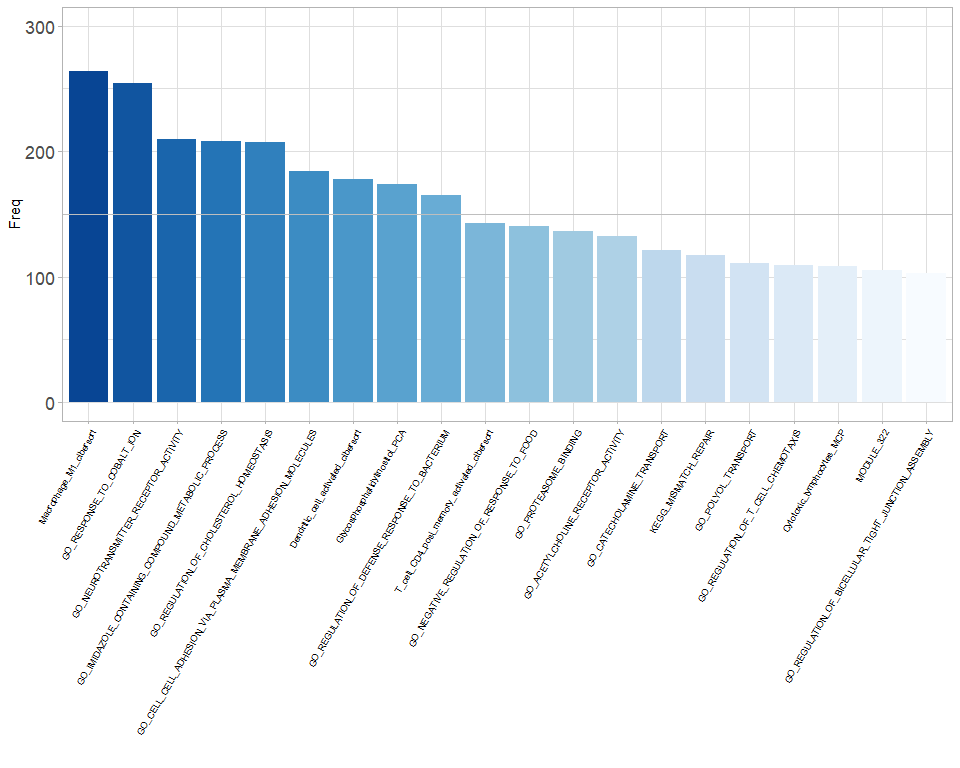
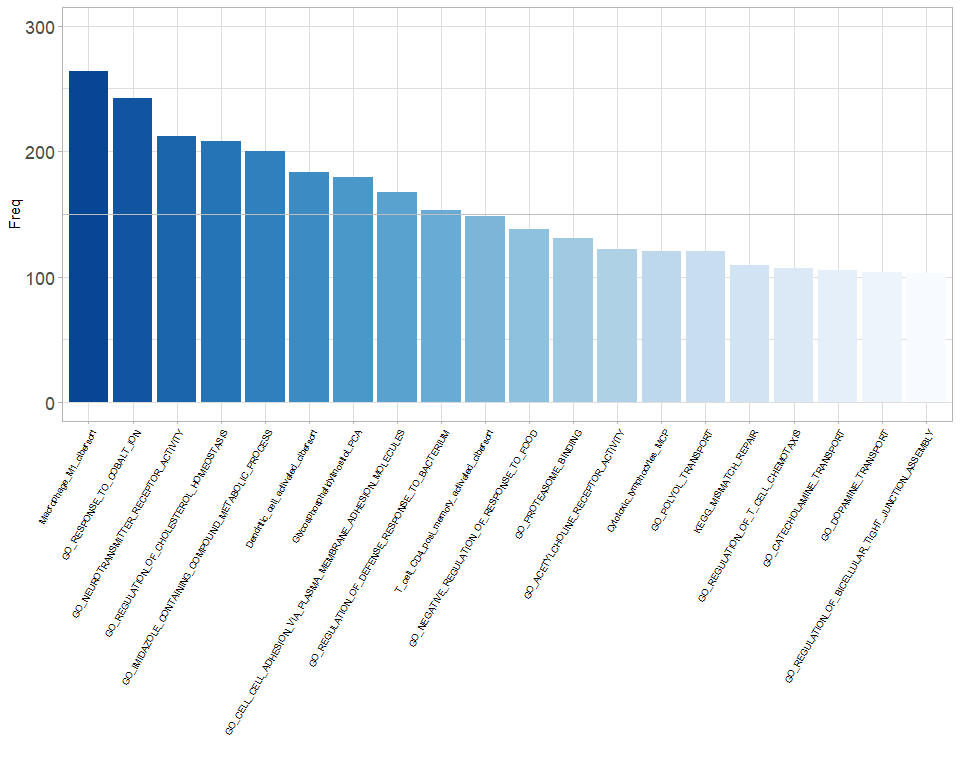
update README

diff --git a/README.md b/README.md
@@ -1,7 +1,7 @@
 
 <!-- README.md is generated from README.Rmd. Please edit that file -->
 
-# Blasso： Integrating LASSO cox regression and bootstrapping algorithm to find best prognostic features
+# Blasso： Integrating LASSO regression and bootstrapping algorithm to find best prognostic or predictive feature
 
 The package is not yet on CRAN. You can install from Github:
 
@@ -68,15 +68,15 @@ res<-best_predictor_cox(target_data = target,
 head(res$res, n = 10)
 #>                                                             res Freq
 #> 1                                       Macrophage_M1_cibersort  264
-#> 2                                     GO_RESPONSE_TO_COBALT_ION  254
-#> 3                         GO_NEUROTRANSMITTER_RECEPTOR_ACTIVITY  210
-#> 4            GO_IMIDAZOLE_CONTAINING_COMPOUND_METABOLIC_PROCESS  208
-#> 5                      GO_REGULATION_OF_CHOLESTEROL_HOMEOSTASIS  207
-#> 6  GO_CELL_CELL_ADHESION_VIA_PLASMA_MEMBRANE_ADHESION_MOLECULES  184
-#> 7                            Dendritic_cell_activated_cibersort  178
-#> 8                                Glycosphosphatidylinositol_PCA  174
-#> 9                GO_REGULATION_OF_DEFENSE_RESPONSE_TO_BACTERIUM  165
-#> 10                   T_cell_CD4_posi_memory_activated_cibersort  143
+#> 2                                     GO_RESPONSE_TO_COBALT_ION  242
+#> 3                         GO_NEUROTRANSMITTER_RECEPTOR_ACTIVITY  212
+#> 4                      GO_REGULATION_OF_CHOLESTEROL_HOMEOSTASIS  208
+#> 5            GO_IMIDAZOLE_CONTAINING_COMPOUND_METABOLIC_PROCESS  200
+#> 6                            Dendritic_cell_activated_cibersort  183
+#> 7                                Glycosphosphatidylinositol_PCA  179
+#> 8  GO_CELL_CELL_ADHESION_VIA_PLASMA_MEMBRANE_ADHESION_MOLECULES  167
+#> 9                GO_REGULATION_OF_DEFENSE_RESPONSE_TO_BACTERIUM  153
+#> 10                   T_cell_CD4_posi_memory_activated_cibersort  148
 ```
 
 ## Usage-2: Binomial model
@@ -96,16 +96,16 @@ res<-best_predictor_binomial(target_data = target,
 ``` r
 head(res$res, n = 10)
 #>                                                               res Freq
-#> 2                                         Macrophage_M1_cibersort  287
-#> 3                                       GO_RESPONSE_TO_COBALT_ION  272
-#> 4                        GO_REGULATION_OF_CHOLESTEROL_HOMEOSTASIS  249
-#> 5                     GO_SOMATIC_STEM_CELL_POPULATION_MAINTENANCE  247
-#> 6                           GO_NEUROTRANSMITTER_RECEPTOR_ACTIVITY  246
-#> 7                                                       GO_M_BAND  232
-#> 8                              Dendritic_cell_activated_cibersort  227
-#> 9  GO_RECEPTOR_SIGNALING_PROTEIN_SERINE_THREONINE_KINASE_ACTIVITY  207
-#> 10                                     GO_CENTROSOME_LOCALIZATION  203
-#> 11                GO_VERY_LONG_CHAIN_FATTY_ACID_METABOLIC_PROCESS  197
+#> 2                                       GO_RESPONSE_TO_COBALT_ION  276
+#> 3                                         Macrophage_M1_cibersort  274
+#> 4                           GO_NEUROTRANSMITTER_RECEPTOR_ACTIVITY  247
+#> 5                     GO_SOMATIC_STEM_CELL_POPULATION_MAINTENANCE  245
+#> 6                              Dendritic_cell_activated_cibersort  242
+#> 7                        GO_REGULATION_OF_CHOLESTEROL_HOMEOSTASIS  240
+#> 8                                                       GO_M_BAND  225
+#> 9  GO_RECEPTOR_SIGNALING_PROTEIN_SERINE_THREONINE_KINASE_ACTIVITY  206
+#> 10                                     GO_CENTROSOME_LOCALIZATION  199
+#> 11                                     GO_CATECHOLAMINE_TRANSPORT  190
 ```
 
 ## Session Info
@@ -114,7 +114,7 @@ head(res$res, n = 10)
 sessionInfo()
 #> R version 3.6.3 (2020-02-29)
 #> Platform: x86_64-w64-mingw32/x64 (64-bit)
-#> Running under: Windows 10 x64 (build 18362)
+#> Running under: Windows 10 x64 (build 18363)
 #> 
 #> Matrix products: default
 #> 
@@ -136,14 +136,14 @@ sessionInfo()
 #>  [1] shape_1.4.4       tidyselect_1.1.0  xfun_0.16         remotes_2.2.0    
 #>  [5] purrr_0.3.4       splines_3.6.3     lattice_0.20-41   generics_0.0.2   
 #>  [9] colorspace_1.4-1  vctrs_0.3.2       testthat_2.3.2    usethis_1.6.1    
-#> [13] htmltools_0.5.0   yaml_2.2.1        rlang_0.4.7       pkgbuild_1.1.0   
-#> [17] pillar_1.4.6      glue_1.4.2        withr_2.2.0       sessioninfo_1.1.1
+#> [13] htmltools_0.5.0   yaml_2.2.1        rlang_0.4.8       pkgbuild_1.1.0   
+#> [17] pillar_1.4.6      glue_1.4.2        withr_2.3.0       sessioninfo_1.1.1
 #> [21] foreach_1.5.0     lifecycle_0.2.0   stringr_1.4.0     munsell_0.5.0    
 #> [25] gtable_0.3.0      devtools_2.3.1    codetools_0.2-16  memoise_1.1.0    
 #> [29] evaluate_0.14     labeling_0.3      knitr_1.29        callr_3.4.3      
 #> [33] ps_1.3.4          fansi_0.4.1       backports_1.1.8   scales_1.1.1     
 #> [37] desc_1.2.0        pkgload_1.1.0     farver_2.0.3      fs_1.4.2         
-#> [41] hms_0.5.3         digest_0.6.25     stringi_1.4.6     processx_3.4.3   
+#> [41] hms_0.5.3         digest_0.6.25     stringi_1.5.3     processx_3.4.3   
 #> [45] dplyr_1.0.0       grid_3.6.3        rprojroot_1.3-2   cli_2.0.2        
 #> [49] tools_3.6.3       magrittr_1.5      crayon_1.3.4      pkgconfig_2.0.3  
 #> [53] ellipsis_0.3.1    prettyunits_1.1.1 assertthat_0.2.1  rmarkdown_2.3    
